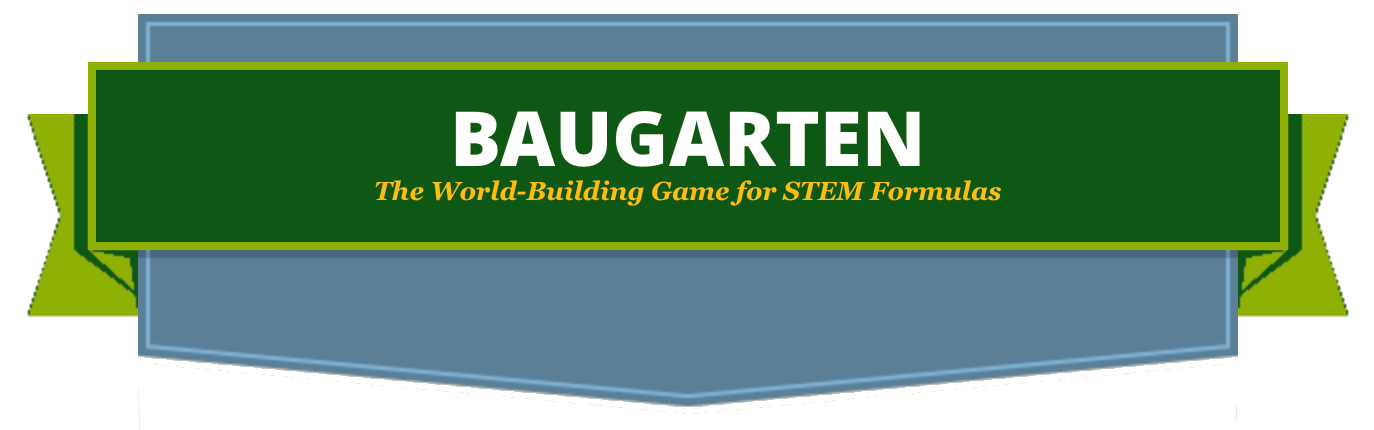
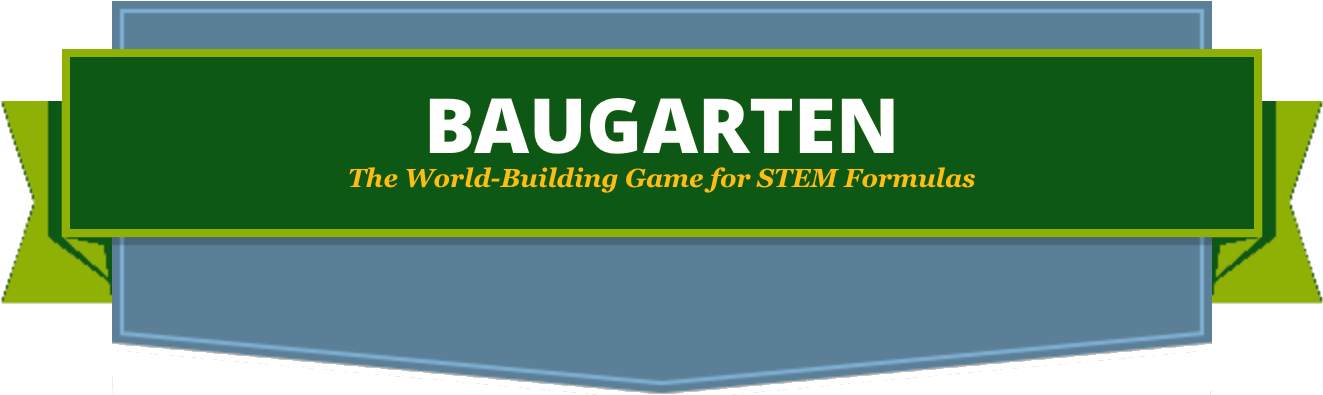
Create newsletter layout

Changed region(s): [[0.0, 0.0, 1.0, 1.0], [0.2479, 0.243, 0.7438, 0.4861]]

diff --git a/_layouts/newsletter.html b/_layouts/newsletter.html
@@ -1,0 +1,35 @@
+<!DOCTYPE html>
+<html lang="{{ site.lang | default: "en-US" }}">
+  <head>
+    <meta charset='utf-8'>
+    <meta http-equiv="X-UA-Compatible" content="IE=edge">
+    <meta name="viewport" content="width=640">
+    <title>Baugarten: The World-Building Game for STEM Formulas</title>
+    <link rel="stylesheet" href="{{ '/assets/css/style.css?v=' | append: site.github.build_revision | relative_url }}" media="screen">
+    <link rel="stylesheet" href="{{ '/assets/css/mobile.css' | relative_url }}" media="handheld, only screen and (max-device-width:640px)">
+    <link rel="stylesheet" href="{{ '/assets/css/non-screen.css' | relative_url }}" media="handheld, only screen and (max-device-width:640px)">
+
+    <script src="{{ '/assets/js/modernizr.js' | relative_url }}"></script>
+    <script src="https://code.jquery.com/jquery-1.12.4.min.js" integrity="sha256-ZosEbRLbNQzLpnKIkEdrPv7lOy9C27hHQ+Xp8a4MxAQ=" crossorigin="anonymous"></script>
+    <script src="{{ '/assets/js/headsmart.min.js' | relative_url }}"></script>
+    <script>
+      $(document).ready(function () {
+        $('#main_content').headsmart()
+      })
+    </script>
+
+
+{% include head-custom.html %}
+  </head>
+
+  <body id="newsletter-font">
+      <link href="http://fonts.cdnfonts.com/css/open-sans" rel="stylesheet">
+
+      <section id="main_content">
+        {{ content }}
+      </section>
+
+
+    </div>
+  </body>
+</html>

diff --git a/assets/css/style.scss b/assets/css/style.scss
@@ -10,6 +10,20 @@
   width: 50%;
 }
 
+.center-image {
+  display:block;
+  margin: 0 auto;
+}
+
+#newsletter-font {
+
+  a { font-size: 150%; }
+  p { font-size: 150%; }
+  font-family: 'Open Sans', sans-serif;
+  font-family: 'Open Sans Light', sans-serif;
+  font-family: 'Open Sans Condensed', sans-serif;
+}
+
 .center-left-text {
   display: block;
   margin-left: auto;
@@ -18,13 +32,13 @@
 }
 
 .align-right, img.align-right {
-margin-bottom: 100px;
-margin-left: 1rem;
-float: right;
+  margin-bottom: 100px;
+  margin-left: 1rem;
+  float: right;
 }
 
 .align-left, img.align-left {
-margin-bottom: 10px;
-margin-left: 1rem;
-float: left;
+  margin-bottom: 10px;
+  margin-left: 1rem;
+  float: left;
 }

diff --git a/_layouts/post.html b/_layouts/post.html
@@ -51,7 +51,8 @@
       {% endif %}
 
       <section id="main_content" class="container center-left-text" style="max-width: 500px">
-      <div id="leftify" style="text-align: left"> 
+        <h1 class="post-title p-name" itemprop="name headline">{{ page.title | escape }}</h1>
+      <div id="leftify" style="text-align: left">
         {{ content }}
       </div>
       </section>

diff --git a/newsletter.md b/newsletter.md
@@ -1,0 +1,49 @@
+---
+title: Baugarten
+layout: newsletter
+---
+
+<img src="https://www.baugarten.app/assets/images/newsletter/newsletter_header.png" class="center-image">
+* * *
+
+### Latest News
+
+<div class="container center" style="max-width: 500px">
+
+
+
+{%- if site.posts.size > 0 -%}
+  <ul class="post-list"> {%- for post in site.posts limit:6 -%}
+    <li>
+      {%- assign date_format = site.minima.date_format | default: "%b %-d, %Y" -%}
+      <span class="post-meta">{{ post.date | date: date_format }}</span>
+      <h3>
+        <a class="post-link" href="{{ post.url | relative_url }}">
+          {{ post.title | escape }}
+        </a>
+      </h3>
+      {%- if site.show_excerpts -%}
+        <div id="leftify">
+          {{ post.excerpt }}
+        </div>
+      {%- endif -%}
+    </li>
+    {%- endfor -%}
+  </ul>
+
+{%- endif -%}
+</div>
+
+
+* * *
+
+### Are you a student, a teacher, a gamer, or just someone who finds our project exciting? 
+#### We'd love to hear from you.
+
+##### <a href="mailto: henry@baugarten.app">henry@baugarten.app</a>
+* +49 0176 473 89 458
+* Kreuzberg, Berlin
+* 10965, Deutschland
+
+[![instagram_baugarten_link](https://www.baugarten.app/assets/images/insta_logo.png.webp){: style="width: 100px"}](https://www.instagram.com/baugarten_formula_game/)
+
